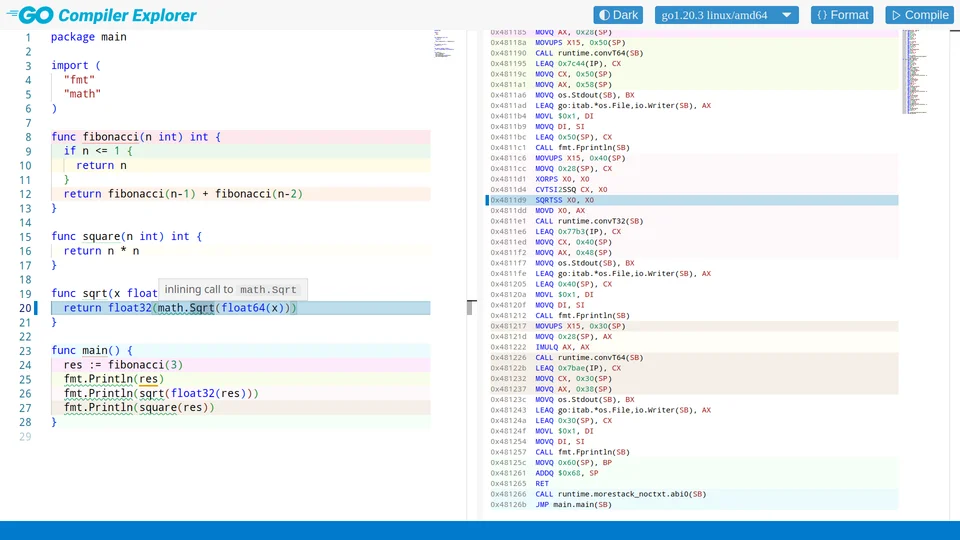
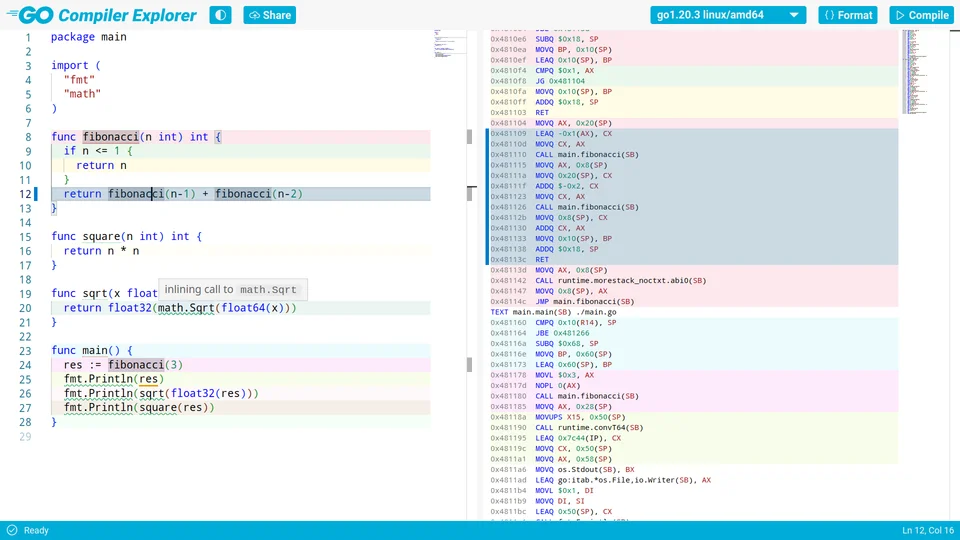
add code sharing ui

diff --git a/ui/src/App.vue b/ui/src/App.vue
@@ -6,15 +6,22 @@ import OutputPane from '@/components/OutputPane.vue'
 import StatusBar from '@/components/statusbar/StatusBar.vue'
 
 import API from '@/services/api'
+import bus from '@/services/bus'
 import State, { Status } from '@/state'
 
 import { onMounted, ref, watch } from 'vue'
 
 const $codeEditor = ref<InstanceType<typeof CodeEditor> | null>(null)
 
-onMounted(() => {
+onMounted(async () => {
+  await getAvailableCompilers()
   State.sourceMap.init()
-  compileCode()
+  await loadStartupCode()
+
+  bus.on('formatCode', formatCode)
+  bus.on('compileCode', compileCode)
+  bus.on('shareCode', shareCode)
+
   useRecompileOnCompilerChange()
 })
 
@@ -64,6 +71,47 @@ async function compileCode() {
   }
 }
 
+async function shareCode() {
+  const code = $codeEditor.value?.getCode()
+  if (!code) return
+  try {
+    const id = await API.shareCode(code)
+    State.sharedCodeLink = `${import.meta.env.VITE_APP_BASE_URL}/${id}`
+  } catch (e) {
+    State.appendError('cannot share code')
+  }
+}
+
+async function loadStartupCode() {
+  let id = getSharedId()
+  if (id) {
+    try {
+      let code = await API.getSharedCode(id)
+      $codeEditor.value?.setCode(code, false)
+    } catch (e) {
+      State.appendError((e as Error).message)
+    }
+  } else {
+    $codeEditor.value?.setCode(defaultCode, false)
+  }
+}
+
+function getSharedId(): string {
+  const path = document.location.pathname
+  const matches = /\/([A-Za-z0-9]+)/.exec(path)
+  if (!matches) return ''
+  return matches[1]
+}
+
+async function getAvailableCompilers() {
+  try {
+    State.compilers = await API.listCompilers()
+    if (State.compilers.length > 0) State.selectedCompiler = State.compilers[0].name
+  } catch (e) {
+    State.appendError('cannot get compilers')
+  }
+}
+
 function useRecompileOnCompilerChange() {
   return watch(
     () => State.selectedCompiler,
@@ -106,16 +154,13 @@ func main() {
 
 <template>
   <div class="root" :class="`theme-${State.theme}`">
-    <MenuBar @format="formatCode" @compile="compileCode"></MenuBar>
+    <MenuBar></MenuBar>
+
     <div class="split">
-      <CodeEditor
-        class="code"
-        ref="$codeEditor"
-        :defaultCode="defaultCode"
-        @change="compileCode"
-      ></CodeEditor>
+      <CodeEditor class="code" ref="$codeEditor" @change="compileCode"></CodeEditor>
       <AsmView class="assembly"></AsmView>
     </div>
+
     <div class="bottom">
       <OutputPane></OutputPane>
       <StatusBar></StatusBar>

diff --git a/ui/src/components/menubar/MenuBar.vue b/ui/src/components/menubar/MenuBar.vue
@@ -1,34 +1,17 @@
 <script lang="ts" setup>
-import API, { type CompilerInfo } from '@/services/api'
+import bus from '@/services/bus'
 import State from '@/state'
 
-import { computed, onMounted, reactive } from 'vue'
+import { computed } from 'vue'
 import GoceLogo from './GoceLogo.vue'
 import MenuButton from './MenuButton.vue'
+import ShareButton from './ShareButton.vue'
 import DropDown from './DropDown.vue'
 
 import '@vscode/codicons/dist/codicon.css'
 
-defineEmits<{
-  (event: 'format'): void
-  (event: 'compile'): void
-}>()
-
-const state = reactive({
-  compilers: Array<CompilerInfo>(),
-})
-
-onMounted(async () => {
-  try {
-    state.compilers = await API.listCompilers()
-    if (state.compilers.length > 0) State.selectedCompiler = state.compilers[0].name
-  } catch (e) {
-    State.appendError('cannot get compilers')
-  }
-})
-
 const compilerOptions = computed(() => {
-  return state.compilers.map((c) => ({
+  return State.compilers.map((c) => ({
     value: c.name,
     text: c.name,
   }))
@@ -41,21 +24,29 @@ function switchTheme() {
 
 <template>
   <div id="menu">
-    <GoceLogo class="logo"></GoceLogo>
-    <div class="spacer"></div>
+    <a href="/">
+      <GoceLogo class="logo"></GoceLogo>
+    </a>
+
     <MenuButton @click="switchTheme">
       <i
         class="codicon codicon-color-mode"
         :style="{ transform: State.theme == 'dark' ? `rotate(180deg)` : undefined }"
       ></i>
-      <span>{{ State.theme == 'light' ? 'Dark' : 'Light' }}</span>
     </MenuButton>
+
+    <ShareButton></ShareButton>
+
+    <div class="spacer"></div>
+
     <DropDown v-model="State.selectedCompiler" :options="compilerOptions"></DropDown>
-    <MenuButton @click="$emit('format')">
+
+    <MenuButton @click="bus.emit('formatCode')">
       <i class="codicon codicon-json"></i>
       <span>Format</span>
     </MenuButton>
-    <MenuButton @click="$emit('compile')">
+
+    <MenuButton @click="bus.emit('compileCode')">
       <i class="codicon codicon-play"></i>
       <span>Compile</span>
     </MenuButton>
@@ -72,8 +63,14 @@ $height: 1.5rem;
   display: flex;
   gap: 1rem;
 
-  .logo {
-    height: $height;
+  > a {
+    border: none;
+    text-decoration: none;
+    .logo {
+      display: block;
+      height: $height;
+      flex-shrink: 0;
+    }
   }
 
   .spacer {

diff --git a/ui/src/components/menubar/ShareButton.vue b/ui/src/components/menubar/ShareButton.vue
@@ -1,0 +1,67 @@
+<script setup lang="ts">
+import MenuButton from './MenuButton.vue'
+import bus from '@/services/bus'
+import State from '@/state'
+
+import { nextTick, ref, watch } from 'vue'
+
+const shareButtonText = ref('Share')
+const $sharedLink = ref<HTMLInputElement | null>(null)
+
+watch(
+  () => State.sharedCodeLink,
+  (newLink, oldLink) => {
+    if (newLink && !oldLink) {
+      shareButtonText.value = 'Copy'
+      nextTick(() => {
+        if ($sharedLink.value) {
+          $sharedLink.value.focus()
+          $sharedLink.value.select()
+        }
+      })
+    }
+  }
+)
+
+async function shareCode() {
+  if (State.sharedCodeLink) {
+    navigator.clipboard.writeText(State.sharedCodeLink)
+    shareButtonText.value = 'Done'
+    setTimeout(() => {
+      State.sharedCodeLink = ''
+      shareButtonText.value = 'Share'
+    }, 1000)
+  } else {
+    bus.emit('shareCode')
+  }
+}
+</script>
+
+<template>
+  <MenuButton @click="shareCode">
+    <i class="codicon codicon-cloud-upload"></i>
+    <span v-text="shareButtonText"></span>
+    <input
+      v-show="State.sharedCodeLink"
+      ref="$sharedLink"
+      class="shared-link"
+      type="text"
+      spellcheck="false"
+      @click.stop
+      :value="State.sharedCodeLink"
+    />
+  </MenuButton>
+</template>
+
+<style scoped lang="scss">
+@use '@/assets/themes/theme.scss';
+
+input.shared-link {
+  background-color: theme.$buttonColor;
+  color: theme.$textColor;
+  font-size: 0.7rem;
+  &::selection {
+    background-color: theme.$buttonColorFocus;
+  }
+}
+</style>

diff --git a/ui/src/state.ts b/ui/src/state.ts
@@ -1,4 +1,5 @@
 import { SourceMap } from '@/components/editor/sourcemap'
+import type { CompilerInfo } from '@/services/api'
 
 import { Position } from 'monaco-editor'
 
@@ -14,14 +15,16 @@ class State {
     localStorage.setItem('theme', v)
   }
 
+  compilers: Array<CompilerInfo> = new Array()
   selectedCompiler: string = ''
+
+  sourceMap: SourceMap = new SourceMap()
+  cursorPosition: Position = new Position(1, 1)
 
   status: Status = Status.Idle
   errorMessage: string = ''
 
-  sourceMap: SourceMap = new SourceMap()
-
-  cursorPosition: Position = new Position(1, 1)
+  sharedCodeLink: string | null = null
 
   constructor() {
     this._theme = localStorage.getItem('theme') || 'light'

diff --git a/ui/src/services/api.ts b/ui/src/services/api.ts
@@ -48,6 +48,26 @@ export class API {
     }
     return await res.json()
   }
+
+  async shareCode(code: string): Promise<string> {
+    const res = await fetch(`${this.baseUrl}/api/shared`, {
+      method: 'POST',
+      body: code,
+    })
+    if (!res.ok) {
+      throw Error('cannot share code')
+    }
+    const shared = await res.json()
+    return shared.id
+  }
+
+  async getSharedCode(id: string): Promise<string> {
+    const res = await fetch(`${this.baseUrl}/api/shared/${id}`)
+    if (!res.ok) {
+      throw Error('cannot get shared code')
+    }
+    return await res.text()
+  }
 }
 
 export interface CompilerInfo {

diff --git a/ui/src/services/bus.ts b/ui/src/services/bus.ts
@@ -1,6 +1,10 @@
 import mitt from 'mitt'
 
 type Events = {
+  formatCode: void,
+  compileCode: void,
+  shareCode: void,
+
   editorLayoutRequested: void
   sourceLineHovered: number
   assemblyLineHovered: number

diff --git a/ui/src/components/statusbar/StatusBar.vue b/ui/src/components/statusbar/StatusBar.vue
@@ -70,10 +70,6 @@ $height: 1.57rem;
       animation: rotation 2s infinite linear;
     }
   }
-  .cursor-position {
-    // @include theme.font(code);
-    // font-weight: bold;
-  }
 }
 
 .spacer {

diff --git a/ui/src/assets/themes/reset.scss b/ui/src/assets/themes/reset.scss
@@ -102,6 +102,9 @@ table {
 }
 
 input {
+  appearance: none;
   -webkit-appearance: none;
+  border: none;
+  outline: none;
   border-radius: 0;
 }
